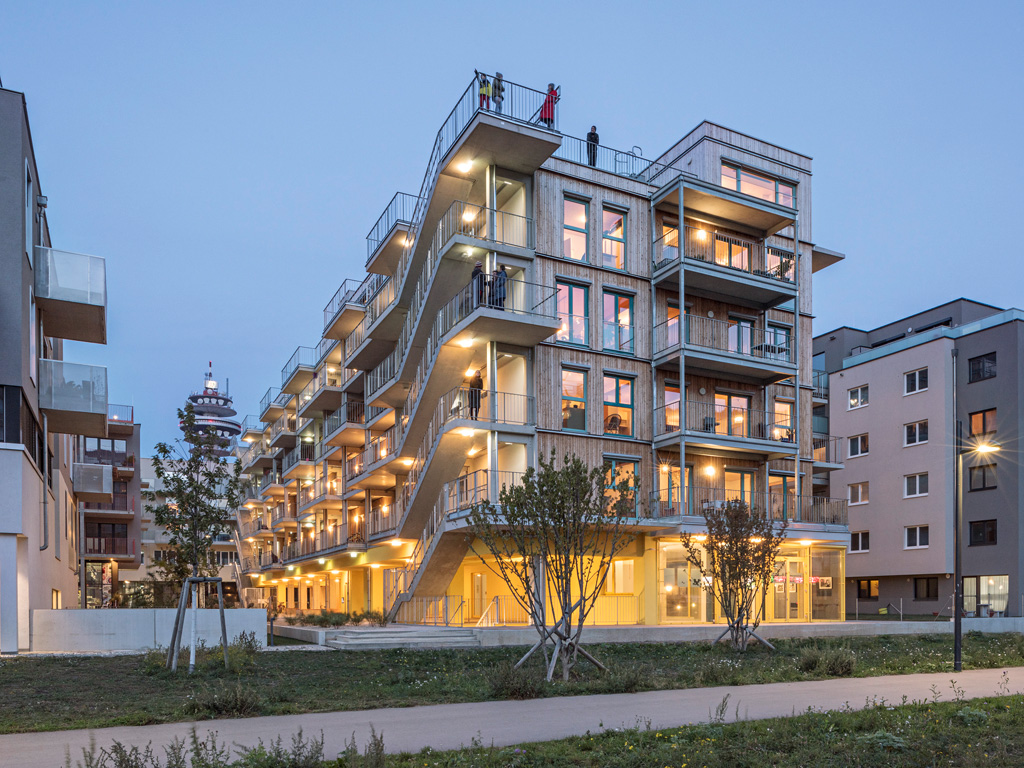
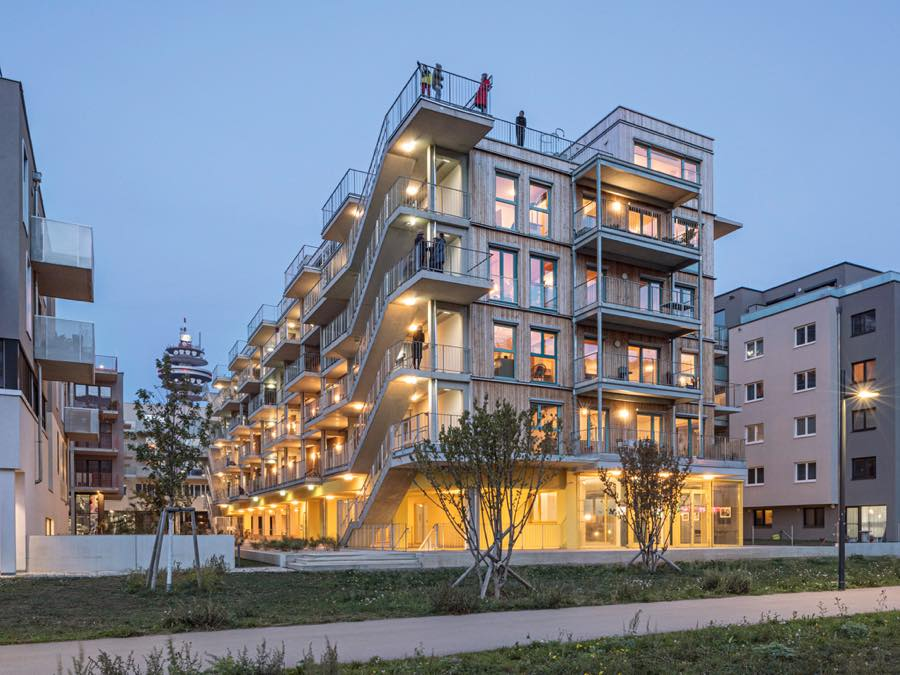
Compress all images to ~100KB, convert PNG to JPG

diff --git a/filter-dummy-v2.html b/filter-dummy-v2.html
@@ -205,8 +205,8 @@
   <img src="img/img2.jpg" id="proj-img-1" alt="">
   <img src="img/img3.jpg" id="proj-img-2" alt="">
   <img src="img/img4.jpg" id="proj-img-3" alt="">
-  <img src="img/img5.png" id="proj-img-4" alt="">
-  <img src="img/img6.png" id="proj-img-5" alt="">
+  <img src="img/img5.jpg" id="proj-img-4" alt="">
+  <img src="img/img6.jpg" id="proj-img-5" alt="">
 </div>
 
 <!-- MAIN -->
